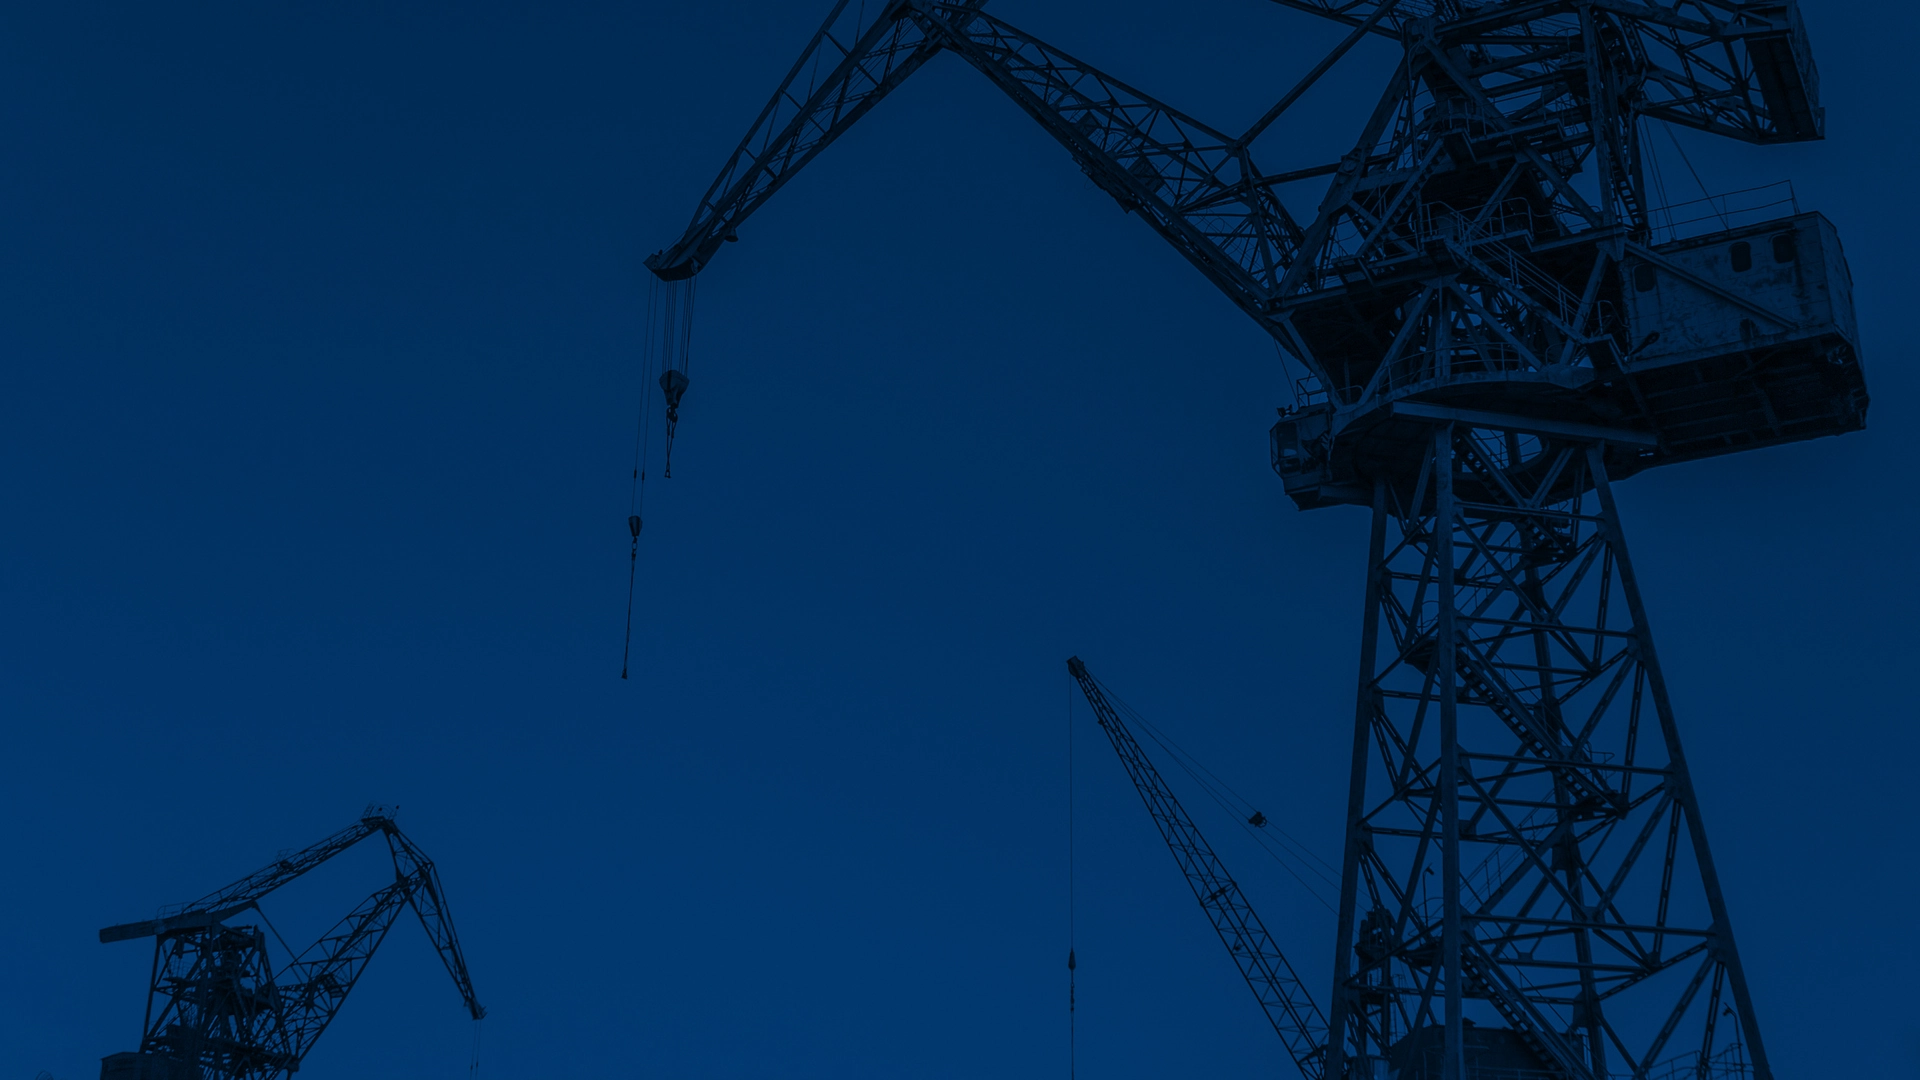
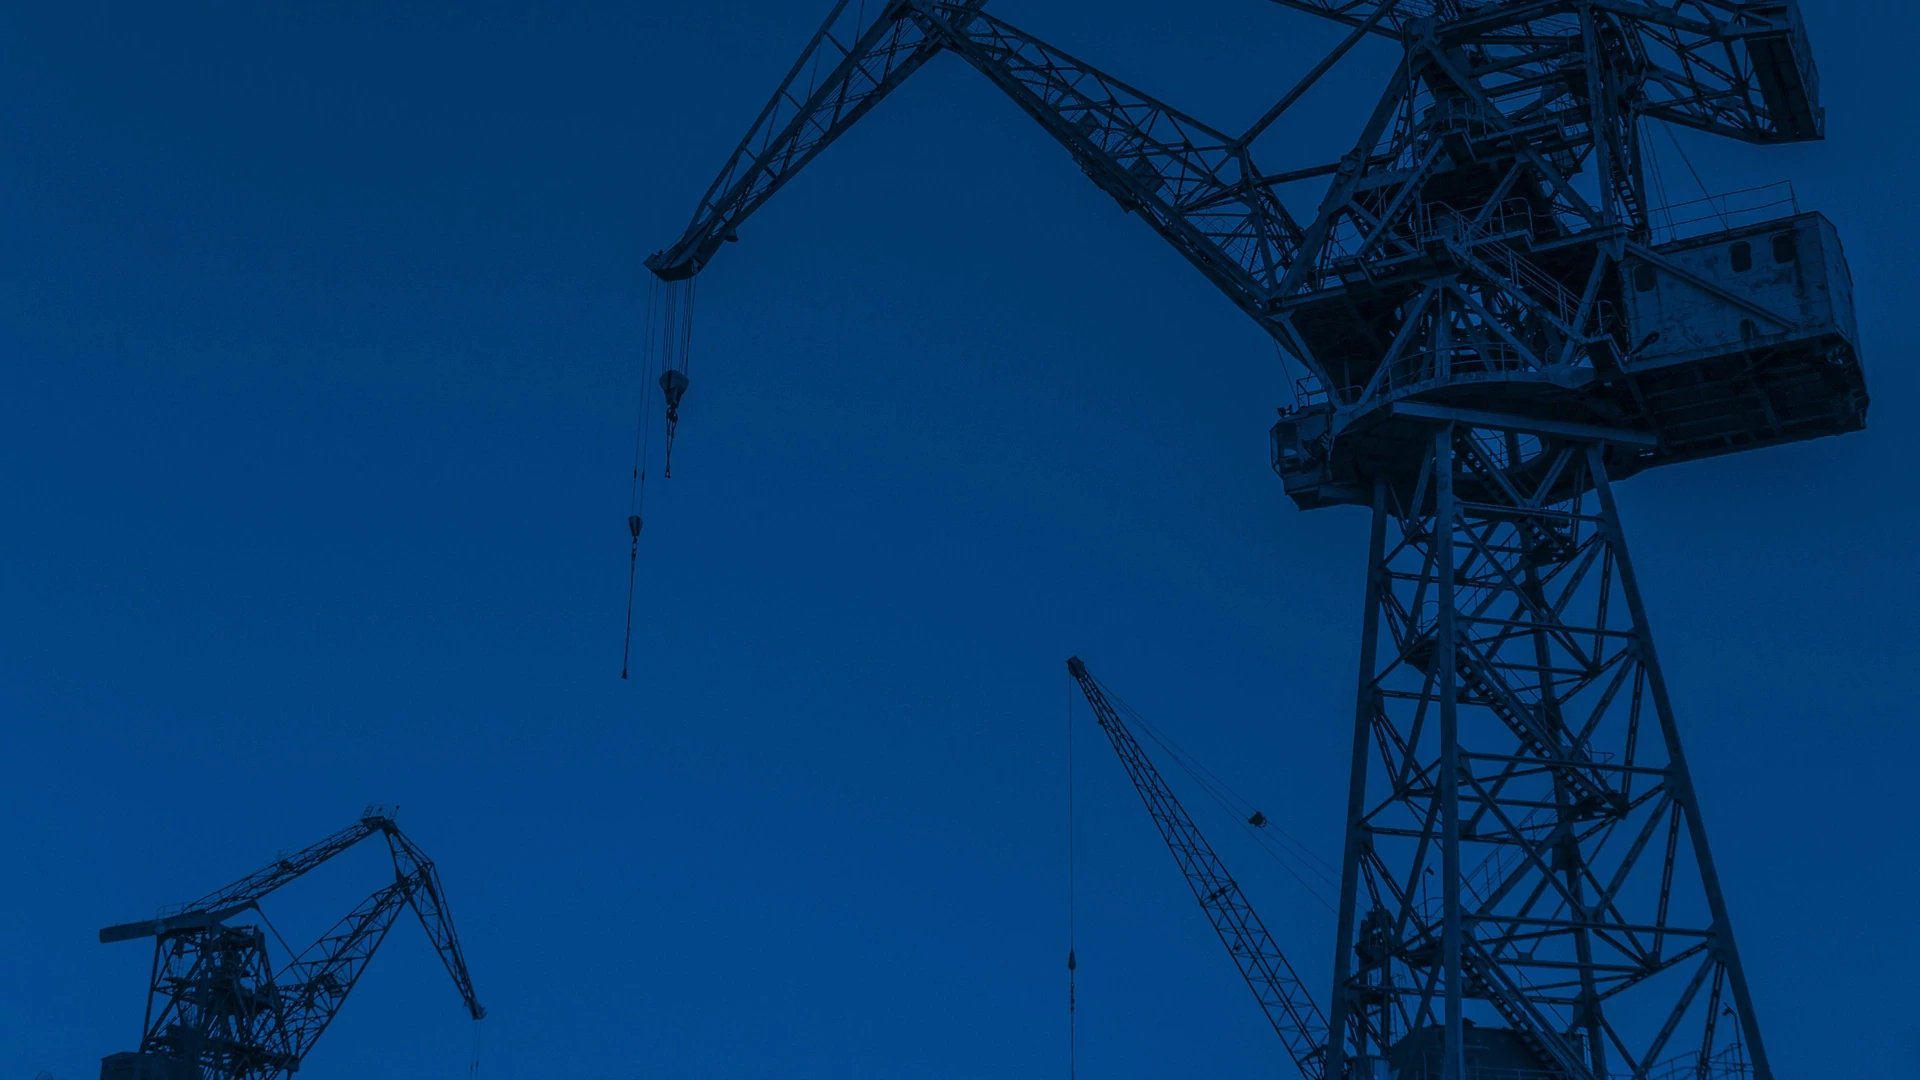
exposure img changed

diff --git a/src/components/MainPageSlider.js b/src/components/MainPageSlider.js
@@ -1,9 +1,9 @@
 import React from "react"
 import { useKeenSlider } from "keen-slider/react"
 import "keen-slider/keen-slider.min.css";
-import img1 from "../assets/imgs/home-slider/radca-prawny-gdansk-1.webp"
-import img2 from "../assets/imgs/home-slider/radca-prawny-gdansk-3.webp"
-import img3 from "../assets/imgs/home-slider/radca-prawny-gdansk-5.webp"
+import img1 from "../assets/imgs/home-slider/radca-prawny-gdansk-1b.webp"
+import img2 from "../assets/imgs/home-slider/radca-prawny-gdansk-6b.webp"
+import img3 from "../assets/imgs/home-slider/radca-prawny-gdansk-5b.webp"
 import Button from "../components/CtaButton"
 import { motion, useAnimation } from "framer-motion"
 import { SplitText } from "./SplitText"
@@ -153,7 +153,18 @@ const MainPageSlider = (props) => {
             <div
               className="index-slider">
               <div className="container-fluid ">
-                <div className="col-lg-5 col-12">
+                <motion.div
+                  initial={{opacity: 0 , scale: .85}}
+                  animate={{
+                    scale: 1,
+                    opacity: 1,
+                    transition: {
+                      delay: 3.4,
+                      duration: 1,
+                      ease: [0.6, 0.01, -0.05, 0.9]
+                    }
+                  }}
+                  className="col-lg-5 col-12">
                   <h1>
                     <SplitText
                       initial={{ y: "100%" }}
@@ -178,7 +189,7 @@ const MainPageSlider = (props) => {
                   >
                     <Button url={item.url} color={"white"} buttonDesc={item.buttonText}/>
                   </motion.div>
-                </div>
+                </motion.div>
               </div>
             </div>
           </div>

diff --git a/src/css/styles.scss b/src/css/styles.scss
@@ -1852,6 +1852,7 @@ Team Slider Home And Team
 }
 
 .arrows-wrapper-services {
+
   position: relative;
   bottom: -22rem;
   @include for-tablet-portrait-up{
@@ -1871,7 +1872,7 @@ Team Slider Home And Team
 }
 
 .arrow-services.arrow-services--right {
-  left: 12.5% !important;
+  left: 1% !important;
   //bottom: 10rem;
   @include for-tablet-landscape-up {
     left: 10%;
@@ -1958,9 +1959,9 @@ Team Slider Home And Team
   height: 100vh;
   max-height: 100vh;
 
-  .container-fluid {
-    padding: 0;
-  }
+  //.container-fluid {
+  //  //padding: 0;
+  //}
 
   @include for-phone-only {
     .container-fluid {
@@ -2013,6 +2014,7 @@ Team Slider Home And Team
 .arrow-home {
   width: 15px;
   height: 20px;
+  margin: 0 15px;
   position: absolute;
   bottom: 10%;
   //transform: translateY(-50%);

diff --git a/src/pages/radca-prawny-gdansk.js b/src/pages/radca-prawny-gdansk.js
@@ -1,7 +1,7 @@
 import React from "react"
 // import { graphql, useStaticQuery } from "gatsby"
 import Subheader from "../components/Subheader"
-import subHeaderPhoto from "../assets/imgs/home-slider/radca-prawny-gdansk-1.webp"
+import subHeaderPhoto from "../assets/imgs/home-slider/radca-prawny-gdansk-1b.webp"
 import aboutImg1 from "../assets/imgs/home-slider/porady-prawne-gdansk.webp"
 import aboutImg2 from "../assets/imgs/home-slider/porady-prawne-gdansk-2.webp"
 import Footer from "../components/Footer"

diff --git a/src/pages/blog-prawniczy.js b/src/pages/blog-prawniczy.js
@@ -3,7 +3,7 @@ import Image from "gatsby-image"
 import { graphql, Link } from "gatsby"
 import Subheader from "../components/Subheader"
 import Footer from "../components/Footer"
-import subHeaderPhoto from "../assets/imgs/home-slider/radca-prawny-gdansk-2.webp"
+import subHeaderPhoto from "../assets/imgs/home-slider/radca-prawny-gdansk-2b.webp"
 import ButtonRight from "../components/CtaButton"
 import SEO from "../components/SEO"
 import TriggerText from "../components/TriggerText"

diff --git a/src/components/TriggerImg.js b/src/components/TriggerImg.js
@@ -28,7 +28,7 @@ const TriggerText = ({children, threshold}) => {
       variants={{
         // visible: { opacity: 1, y: 0, clipPath: "circle(450% at 100% 100%)",
         visible: { opacity: 1, y: 0,
-            transition: { delay: .2, duration: 2.2}
+            transition: { delay: .2, duration: 1.6}
         },
         hidden: { opacity: 0, y: -20 }
         // hidden: { opacity: 0, y: -20, clipPath: "circle(16.2% at 48% 0)" }

diff --git a/src/pages/zakres-uslug.js b/src/pages/zakres-uslug.js
@@ -1,6 +1,6 @@
 import React from "react"
 import Subheader from "../components/Subheader"
-import subHeaderPhoto from "../assets/imgs/home-slider/radca-prawny-gdansk-3.webp"
+import subHeaderPhoto from "../assets/imgs/home-slider/radca-prawny-gdansk-3b.webp"
 import Footer from "../components/Footer"
 import StickyBox from "react-sticky-box"
 import Button from "../components/CtaButton"

diff --git a/src/pages/zespol.js b/src/pages/zespol.js
@@ -1,6 +1,6 @@
 import React from "react"
 import Subheader from "../components/Subheader"
-import subHeaderPhoto from "../assets/imgs/home-slider/radca-prawny-gdansk-6.webp"
+import subHeaderPhoto from "../assets/imgs/home-slider/radca-prawny-gdansk-6b.webp"
 import Footer from "../components/Footer"
 import TeamSlider from "../components/TeamSlider"
 import SEO from "../components/SEO"

diff --git a/src/components/variants.js b/src/components/variants.js
@@ -49,7 +49,7 @@ const layoutVariants = {
   enter: {
     opacity: 1,
     transition: {
-      duration: .6,
+      duration: .4,
       delay: .1,
       // when: "beforeChildren",
       ease: [0.6, 0.01, -0.05, 0.9]
